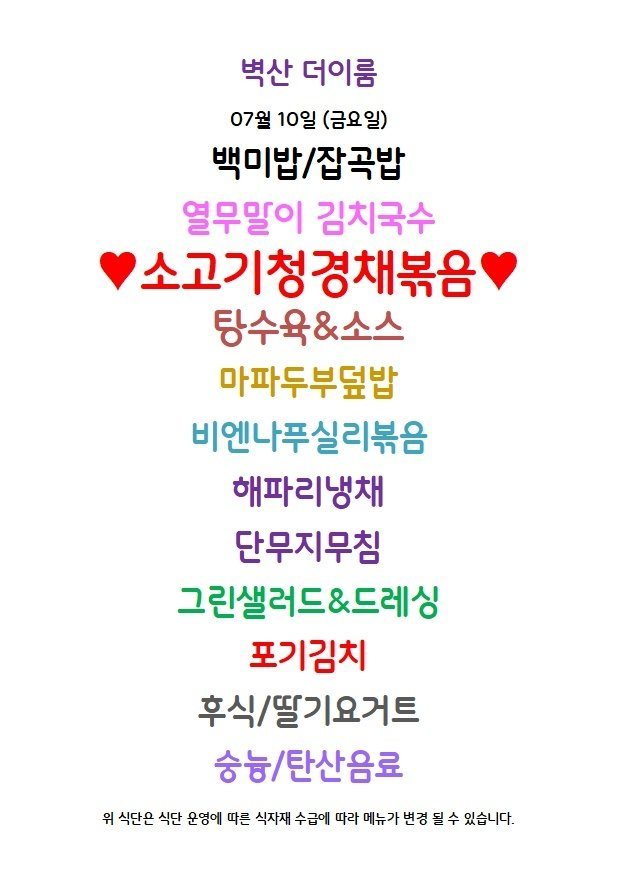
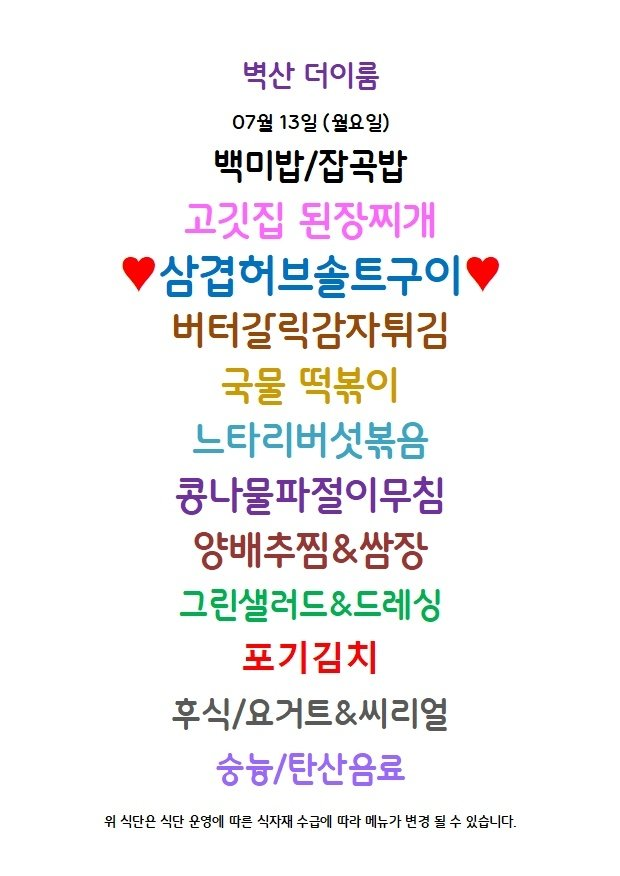
Update menu board assets

Changed region(s): [[0.1535, 0.0616, 0.8595, 0.8938], [0.1535, 0.9247, 0.8288, 0.9555]]

diff --git a/menu-today/index.html b/menu-today/index.html
@@ -209,7 +209,7 @@
 
     <section class="meta-bar">
       <div class="meta-card"><div class="meta-label">기준 날짜</div><div class="meta-value">2026년 7월 13일 월요일</div></div>
-      <div class="meta-card"><div class="meta-label">최종 가져온 시간</div><div class="meta-value">2026-07-13 09:03:43</div></div>
+      <div class="meta-card"><div class="meta-label">최종 가져온 시간</div><div class="meta-value">2026-07-13 09:13:26</div></div>
       <div class="meta-card"><div class="meta-label">확인 완료</div><div class="meta-value">9개 식당</div></div>
       <div class="meta-card"><div class="meta-label">준비중</div><div class="meta-value">3개 채널</div></div>
     </section>
@@ -255,7 +255,7 @@
             <div class="sub">디폴리스지식산업센터</div>
           </div>
         </div>
-        <div class="menu-inline-image"><img src="./images/dipolis.png" alt="디폴리스 구내식당 식단 이미지"></div><ul><li>빠각어묵 피망부은</li><li>둔벼재 해장그</li><li>우엉채 양념 조림 / 숙주나물 무침</li><li>양상축이재 샐러드</li><li>겉절이 김치</li><li>*** 위 식단은 사정에 따라 변경될 수 있습니다</li><li>매콤 뼈없는 갈비찜</li><li>치킨 탕수육 &amp; 소스</li><li>구수한 -SA / 과일</li><li>마브으</li><li>사각어묵 피</li><li>숙주나물 무침</li></ul>
+        <div class="menu-inline-image"><img src="./images/dipolis.png" alt="디폴리스 구내식당 식단 이미지"></div><ul><li>빠각어묵 피망부은</li><li>둔벼재 해장그</li><li>우엉채 양념 조림 / 숙주나물 무침</li><li>양상축이재 샐러드</li><li>겉절이 김치</li><li>*** 위 식단은 사정에 따라 변경될 수 있습니다</li><li>매콤 뼈없는 갈비찜</li><li>치킨 탕수육 &amp; 소스</li><li>구수한 -SA / 과일</li><li>마브으</li><li>사각어묵 피</li><li>숙주나물무침</li></ul>
       </article>
 
       <article class="restaurant-card">

diff --git a/guro-menu/index.html b/guro-menu/index.html
@@ -32,7 +32,7 @@
   </header>
   <section class="meta">
     <div><small>기준 날짜</small><strong>2026년 7월 13일 월요일</strong></div>
-    <div><small>최종 갱신</small><strong>2026-07-13 09:03:54</strong></div>
+    <div><small>최종 갱신</small><strong>2026-07-13 09:13:37</strong></div>
     <div><small>등록 식당</small><strong>5개</strong></div>
   </section>
   <div class="notice">공개 카카오 채널의 메뉴 이미지를 자동 수집하고 OCR로 정리합니다. 텍스트에 오타가 있을 수 있으니 식단 이미지를 함께 확인해 주세요.</div>
@@ -89,8 +89,8 @@
           <a class="channel" href="https://pf.kakao.com/_xdLzxgG" target="_blank" rel="noopener">원본 채널</a>
         </div>
         <img class="menu-image" src="./images/byucksan-theirum.png" alt="벽산더이룸 식단 이미지" loading="lazy">
-        <p class="message">최신 공개 식단 이미지의 텍스트입니다. 날짜는 원본 이미지를 확인해 주세요.</p>
-        <ul><li>백미밥/삽곡밥</li><li>열무밀이 김치국수</li><li>소고기청경채볶음</li><li>탕수육&amp;소스</li><li>마파두부덮밥</li><li>비엔나푸실리볶음</li><li>해파리냉채</li><li>단무지무침</li><li>그린샐러드&amp;드레싱</li><li>포기김치</li><li>후식/떨기요거트</li><li>숭등/탄산음료</li></ul>
+        
+        <ul><li>백미밥/잡곡밥</li><li>고깃집 된장찌개</li><li>삼겹어브솔트구이</li><li>버터길릭감자튀김</li><li>국물 떡볶이</li><li>느타리버섯볶음</li><li>콤나물파절이무침</li><li>양배추찜&amp;쌈장</li><li>그린샐러드&amp;드레싱</li><li>포기김치</li><li>후식/요거트8&amp;씨리얼</li><li>숭늉/탄산음료</li></ul>
       </article>
 
       <article class="restaurant-card">
